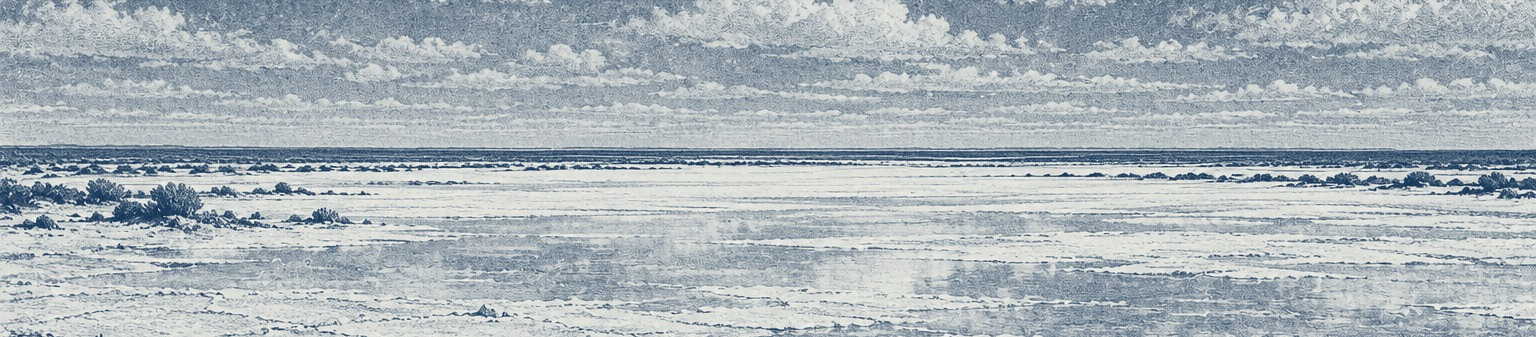
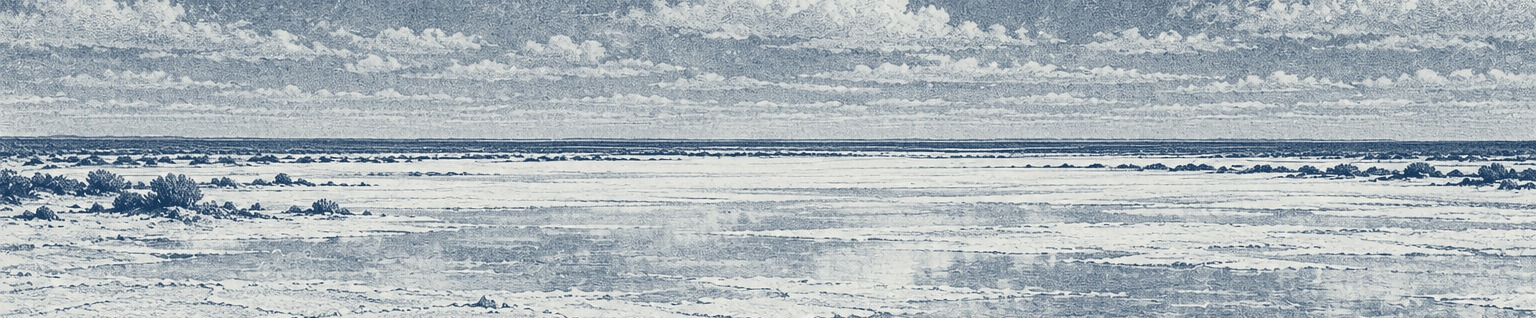
024: la imagen llega hasta el lomo

diff --git a/index.html b/index.html
@@ -5,23 +5,23 @@
 <meta charset="utf-8">
 <meta name="viewport" content="width=1280">
 <title>Darwin en la Argentina — libro</title>
-<link rel="stylesheet" href="styles/tokens.css?v=16f13115">
-<link rel="stylesheet" href="styles/typography.css?v=16f13115">
-<link rel="stylesheet" href="styles/grid.css?v=16f13115">
-<link rel="stylesheet" href="styles/components.css?v=16f13115">
-<link rel="stylesheet" href="styles/pages.css?v=16f13115">
-<link rel="stylesheet" href="styles/maps.css?v=16f13115">
-<link rel="stylesheet" href="styles/paradas.css?v=16f13115">
-<link rel="stylesheet" href="styles/registros.css?v=16f13115">
-<link rel="stylesheet" href="styles/tramo-03.css?v=16f13115">
-<link rel="stylesheet" href="styles/tramo-04-05.css?v=16f13115">
-<link rel="stylesheet" href="styles/tramo-05-07.css?v=16f13115">
-<link rel="stylesheet" href="styles/tramo-07-10.css?v=16f13115">
-<link rel="stylesheet" href="styles/tramo-10-15.css?v=16f13115">
-<link rel="stylesheet" href="styles/fotos.css?v=16f13115">
-<link rel="stylesheet" href="tapa/tapa.css?v=16f13115">
-<link rel="stylesheet" href="styles/medida.css?v=16f13115">
-<link rel="stylesheet" href="styles/print.css?v=16f13115">
+<link rel="stylesheet" href="styles/tokens.css?v=ba6e112c">
+<link rel="stylesheet" href="styles/typography.css?v=ba6e112c">
+<link rel="stylesheet" href="styles/grid.css?v=ba6e112c">
+<link rel="stylesheet" href="styles/components.css?v=ba6e112c">
+<link rel="stylesheet" href="styles/pages.css?v=ba6e112c">
+<link rel="stylesheet" href="styles/maps.css?v=ba6e112c">
+<link rel="stylesheet" href="styles/paradas.css?v=ba6e112c">
+<link rel="stylesheet" href="styles/registros.css?v=ba6e112c">
+<link rel="stylesheet" href="styles/tramo-03.css?v=ba6e112c">
+<link rel="stylesheet" href="styles/tramo-04-05.css?v=ba6e112c">
+<link rel="stylesheet" href="styles/tramo-05-07.css?v=ba6e112c">
+<link rel="stylesheet" href="styles/tramo-07-10.css?v=ba6e112c">
+<link rel="stylesheet" href="styles/tramo-10-15.css?v=ba6e112c">
+<link rel="stylesheet" href="styles/fotos.css?v=ba6e112c">
+<link rel="stylesheet" href="tapa/tapa.css?v=ba6e112c">
+<link rel="stylesheet" href="styles/medida.css?v=ba6e112c">
+<link rel="stylesheet" href="styles/print.css?v=ba6e112c">
 </head>
 <body>
 <div class="spread"><div class="slot--empty"></div><section class="page page--cover page--right front" id="ptapa">
@@ -795,7 +795,7 @@
     <p class="p024__text t-darwin body">De este modo tenemos un pequeño mundo de vivientes recluidos en el recinto de un lago de salmuera y perfectamente adaptados a este medio. Se dice (1) que en los hoyos de salmuera de Lymington viven diminutos crustáceos en número incontable, pertenecientes a la especie <i>Cáncer salinas</i>, pero solamente en aquellos en que el líquido ha alcanzado, por evaporación, considerable densidad, llegando a tener tres onzas de sal por cuartillo de agua.</p>
     <p class="p024__quote t-pullquote">¡Bien podemos afirmar que todas las partes del mundo son habitables!</p>
     <p class="p024__note-d t-data"><span class="notetag">D</span>(1) <i>Linnean Trans.</i>, vol. XI, pág. 205. <span class="cut">[…]</span></p>
-    <div class="p024__image foto" style="background-image:url(assets/images/024-salina.jpg?v=b9b99fc2)" role="img" aria-label="paisaje de salina: extensión blanca y llana en medio de la llanura, sin montañas"></div>
+    <div class="p024__image foto" style="background-image:url(assets/images/024-salina.jpg?v=3d784e2e)" role="img" aria-label="paisaje de salina: extensión blanca y llana en medio de la llanura, sin montañas"></div>
   </div>
   <div class="page__folio"><b>024</b><span>02 Carmen de Patagones / Río Negro</span></div>
 </section>

diff --git a/styles/medida.css b/styles/medida.css
@@ -288,3 +288,6 @@
 
 /* Filetes de un solo lado (casillas de 006–007, listas, datos, fichas): se dibujan como fondo y no como sombra interior.
    La sombra interior dejaba, al acercar la vista, un rastro de línea en los costados de la caja (12 oct. 2026). */
+
+/* 024: la imagen llega también hasta el lomo (la mitad de la doble): ocupa todo el ancho de la página (12 oct. 2026) */
+.p024__image { margin-right: calc(var(--margin-inner) * -1); }

diff --git a/tools/fotos.py b/tools/fotos.py
@@ -17,7 +17,7 @@ FOTOS = [
     ('016a', 'fagus-betuloides', 60, 112, 'l', .5, .5, 0),
     ('016b', 'drymis-winteri', 28, 54, 'l', .5, .5, 0),
     ('020', 'el-carmen', 210, 77.5, 'c', .5, .36, 0),
-    ('024', 'salina', 198, 43.5, 'c', .5, .47, 0),
+    ('024', 'salina', 210, 43.5, 'c', .5, .47, 0),
     ('026', 'jinetes-llanura', 70, 148, 'c', .47, .5, 0),
     ('027', 'suelo-espinoso', 124.3, 94.5, 'c', .5, .5, 0),
     ('028', 'walleechu', 102, 148, 'c', .5, .5, 0),

diff --git a/BOOK_PROGRESS.md b/BOOK_PROGRESS.md
@@ -529,3 +529,4 @@ Se reemplazaron los 39 recuadros de imagen pendiente por ilustraciones generadas
 - 2026-10-12 · 083: más aire entre el texto y el esquema de la ciudad sitiada (pedido de Patricio): el esquema se achata (viewBox 188 × 18; cuadras de 7 × 5,2; mismas 18 cuadras y rótulos) y empieza una línea más abajo (24–27). Página aún sin aprobar.
 - 2026-10-12 · Filetes de un solo lado (casillas de 006–007, fichas, bloques de datos, listas numeradas, código de notas de 104): pasan de sombra interior (box-shadow inset) a fondo (linear-gradient). Motivo: al acercar la vista, la sombra dejaba un rastro de línea en los costados de la caja, como si fuera un rectángulo cerrado (lo vio Patricio en 006 y 007). 10 reglas en pages.css, registros.css, tramo-03.css, tramo-10-15.css y medida.css. Solo CSS: ninguna página cambia de archivo.
 - 2026-10-12 · 089: los dos recuadros esquemáticos (ondas / cuadrados) se reemplazan por láminas en grabado de ChatGPT: «un magnífico lago» y «sal cristalizada en grandes cubos» (originales 089a-lago.webp y 089b-sal.webp → tools/laminas.py → 92,34 × 45 mm, 423 ppp). Mismos pies. Página aún sin aprobar. Falta sumarlas a los créditos de 104.
+- 2026-10-12 · 024: la imagen de la salina llega también hasta el lomo: ocupa todo el ancho de la página, a sangre a la izquierda y abajo (pedido de Patricio; caja 210 × 43,5 mm, 186 ppp). Solo CSS e imagen: sigue bloqueada.
